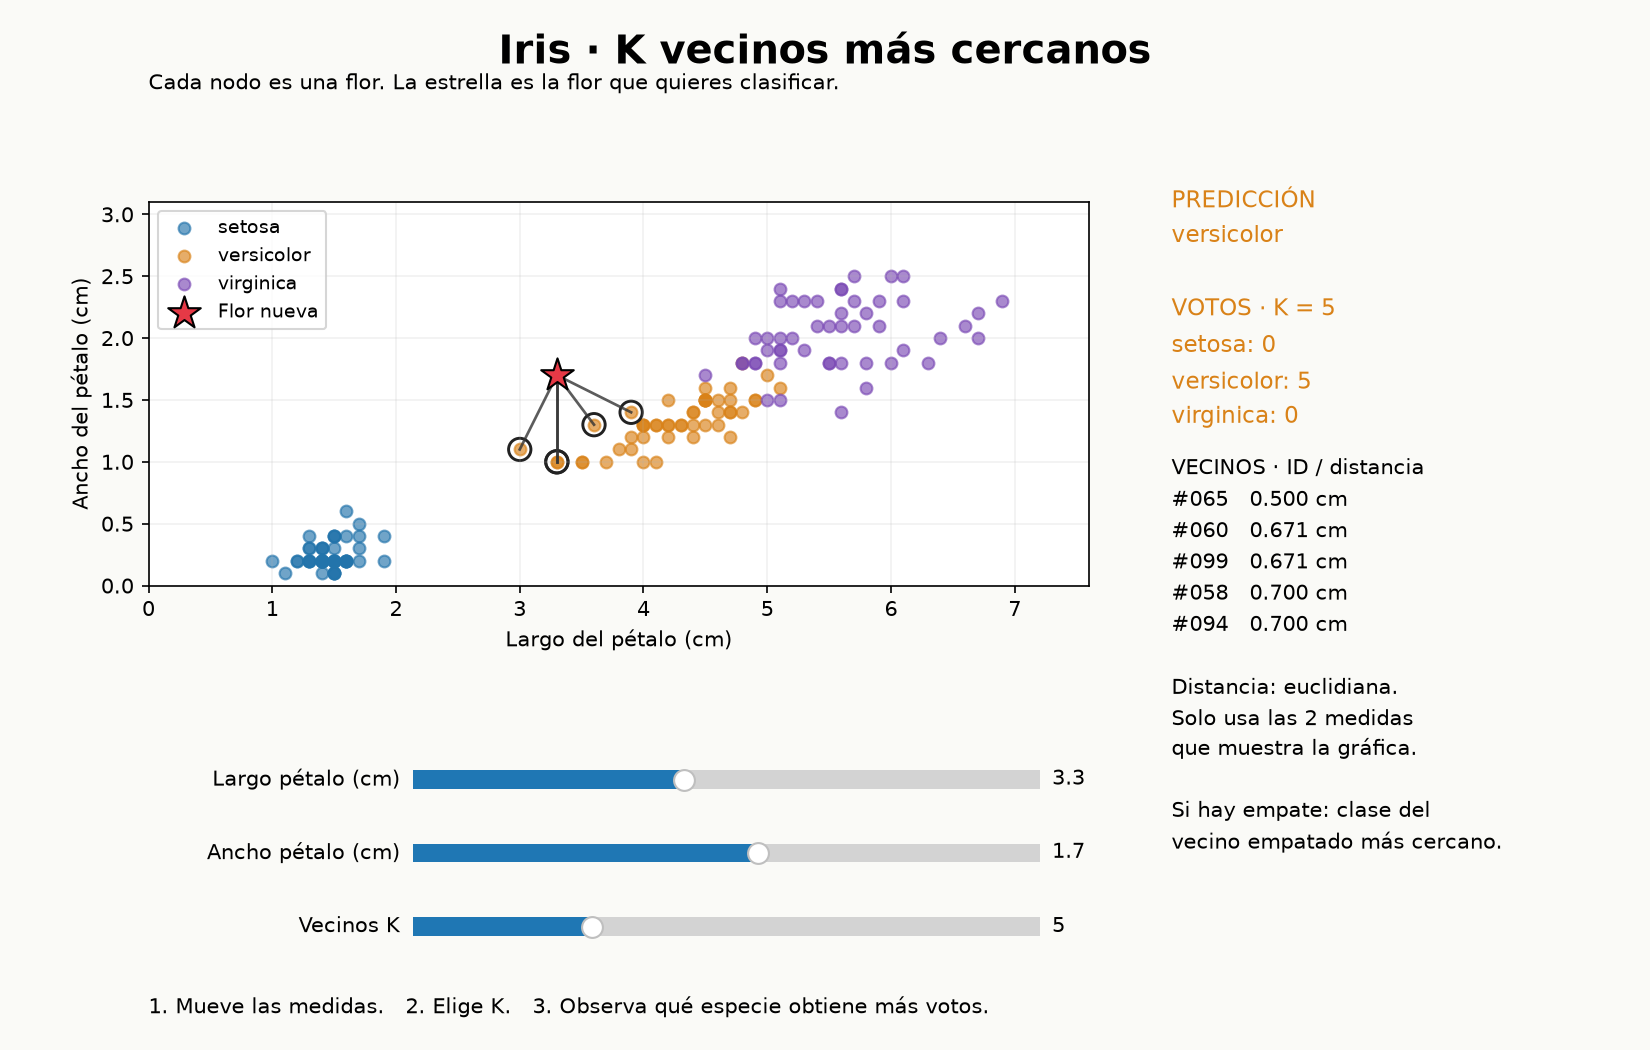
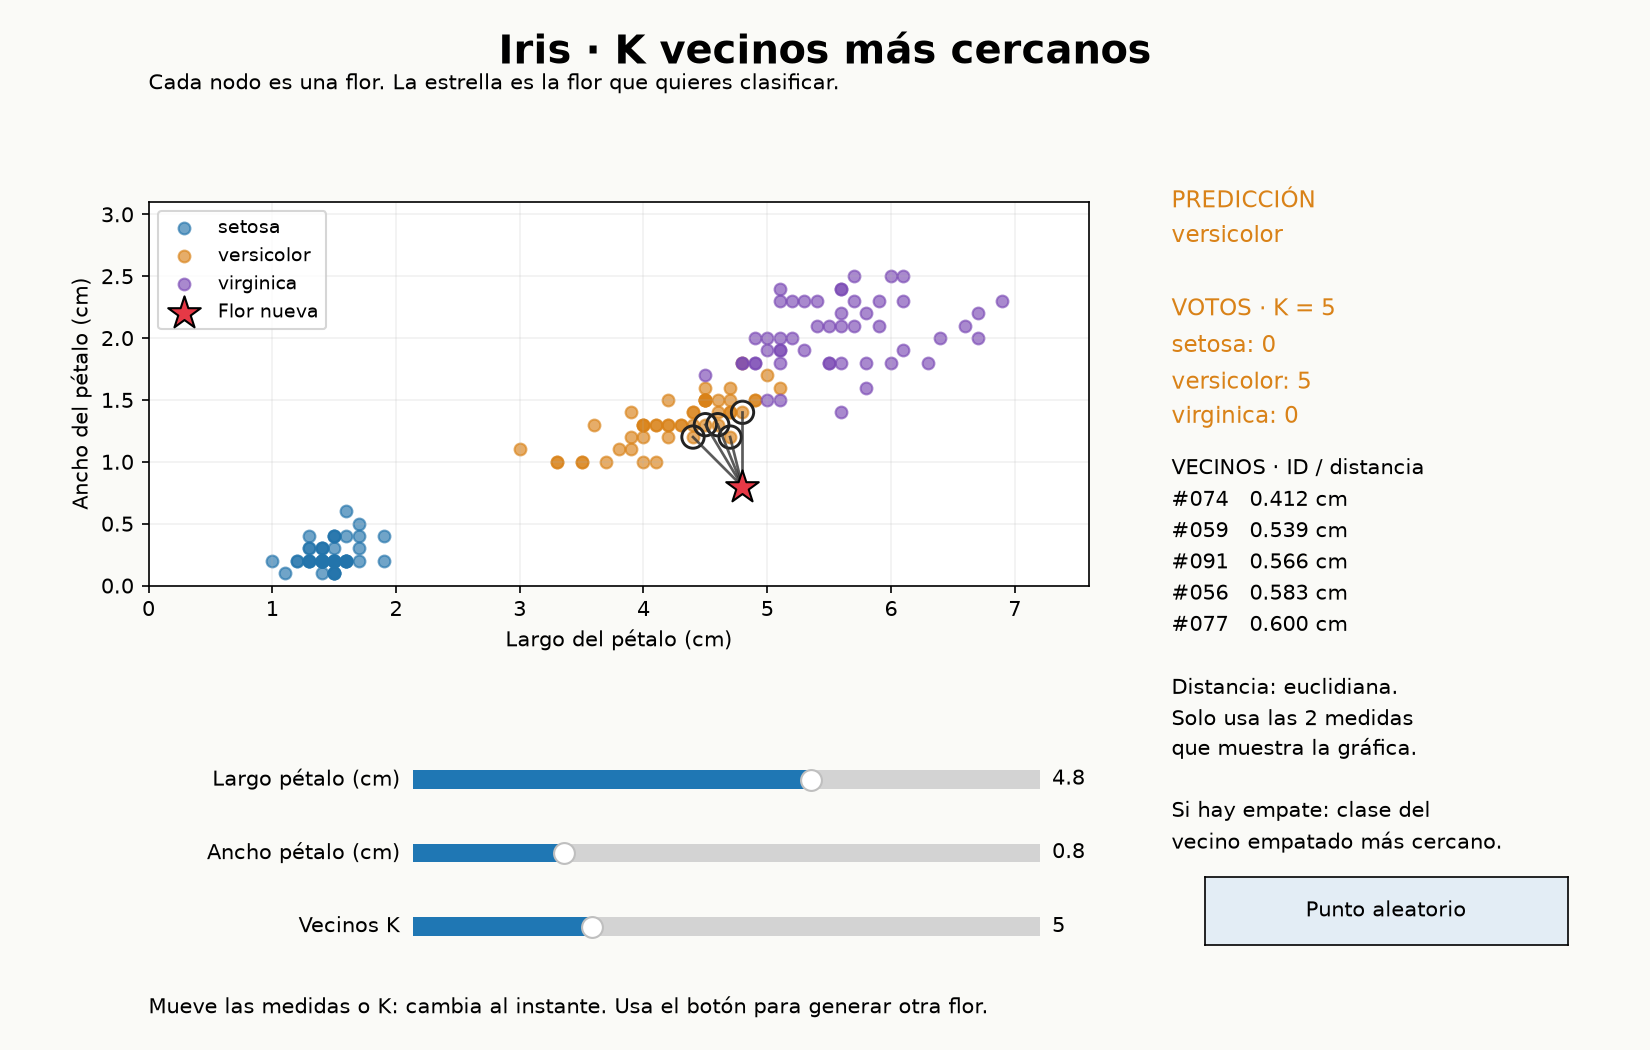
feat(knn): add random point button and random initial query

diff --git a/Proyectos/Iris_KNN_sencillo/knn_iris.py b/Proyectos/Iris_KNN_sencillo/knn_iris.py
@@ -2,6 +2,7 @@
 import argparse
 import csv
 import math
+import random
 from collections import Counter
 from pathlib import Path
 
@@ -36,7 +37,7 @@ def clasificar(datos, largo, ancho, k):
 
 def crear_ventana():
     import matplotlib.pyplot as plt
-    from matplotlib.widgets import Slider
+    from matplotlib.widgets import Slider, Button
 
     datos = cargar_iris()
     fig = plt.figure(figsize=(11, 7), facecolor='#fafaf7')
@@ -46,12 +47,15 @@ def crear_ventana():
     fig.text(.09, .915, 'Cada nodo es una flor. La estrella es la flor que quieres clasificar.', fontsize=10)
     resumen = fig.text(.71, .83, '', va='top', fontsize=11, linespacing=1.6)
     detalle = fig.text(.71, .57, '', va='top', fontsize=10, linespacing=1.5)
+    inicial = (random.randint(10, 69) / 10, random.randint(1, 25) / 10)
     controles = [
-        Slider(fig.add_axes([.25, .24, .38, .035]), 'Largo pétalo (cm)', .1, 7.5, valinit=3.3, valstep=.1),
-        Slider(fig.add_axes([.25, .17, .38, .035]), 'Ancho pétalo (cm)', .1, 3.0, valinit=1.7, valstep=.1),
+        Slider(fig.add_axes([.25, .24, .38, .035]), 'Largo pétalo (cm)', .1, 7.5, valinit=inicial[0], valstep=.1),
+        Slider(fig.add_axes([.25, .17, .38, .035]), 'Ancho pétalo (cm)', .1, 3.0, valinit=inicial[1], valstep=.1),
         Slider(fig.add_axes([.25, .10, .38, .035]), 'Vecinos K', 1, 15, valinit=5, valstep=1, valfmt='%0.0f'),
     ]
-    fig.text(.09, .035, '1. Mueve las medidas.   2. Elige K.   3. Observa qué especie obtiene más votos.', fontsize=10)
+    boton = Button(fig.add_axes([.73, .10, .22, .065]), 'Punto aleatorio',
+                   color='#e3edf5', hovercolor='#c5dfef')
+    fig.text(.09, .035, 'Mueve las medidas o K: cambia al instante. Usa el botón para generar otra flor.', fontsize=10)
 
     def actualizar(_=None):
         x, y, k = controles[0].val, controles[1].val, int(controles[2].val)
@@ -85,11 +89,25 @@ def crear_ventana():
         detalle.set_text('\n'.join(filas))
         fig.canvas.draw_idle()
 
+    def generar_punto(_):
+        # Actualizar las dos coordenadas juntas y recalcular una sola vez.
+        anterior = tuple(round(c.val, 1) for c in controles[:2])
+        nuevo = anterior
+        while nuevo == anterior:
+            nuevo = (random.randint(10, 69) / 10, random.randint(1, 25) / 10)
+        for control, valor in zip(controles[:2], nuevo):
+            control.eventson = False
+            control.set_val(valor)
+            control.eventson = True
+        actualizar()
+
+    boton.on_clicked(generar_punto)
     for control in controles:
         control.on_changed(actualizar)
     actualizar()
     # Mantener vivos los controles y permitir explorar la ventana interactivamente.
     fig.controles_knn = controles
+    fig.boton_aleatorio = boton
     return fig
 
 

diff --git a/Proyectos/Iris_KNN_sencillo/test_knn.py b/Proyectos/Iris_KNN_sencillo/test_knn.py
@@ -59,5 +59,46 @@ class VentanaTests(unittest.TestCase):
             plt.close(fig)
 
 
+class AleatorioTests(unittest.TestCase):
+    def test_inicio_aleatorio_y_boton_actualiza_punto_sin_cambiar_k(self):
+        import random
+        import matplotlib
+        matplotlib.use('Agg')
+        import matplotlib.pyplot as plt
+        from matplotlib.backend_bases import MouseEvent
+        from knn_iris import crear_ventana
+        estado = random.getstate()
+        random.seed(42)
+        fig = crear_ventana()
+        try:
+            largo, ancho, k = fig.controles_knn
+            inicio = (largo.val, ancho.val)
+            otra = crear_ventana()
+            try:
+                self.assertNotEqual(inicio, tuple(c.val for c in otra.controles_knn[:2]))
+            finally:
+                plt.close(otra)
+            largo.set_val(1.4)
+            ancho.set_val(.2)
+            k.set_val(7)
+            fig.canvas.draw()
+            boton = fig.boton_aleatorio
+            x, y = boton.ax.transAxes.transform((.5, .5))
+            for evento in ['button_press_event', 'button_release_event']:
+                fig.canvas.callbacks.process(evento, MouseEvent(evento, fig.canvas, x, y, button=1))
+            self.assertNotEqual((largo.val, ancho.val), (1.4, .2))
+            self.assertTrue(1.0 <= largo.val <= 6.9)
+            self.assertTrue(.1 <= ancho.val <= 2.5)
+            self.assertEqual(k.val, 7)
+            self.assertEqual(len(fig.axes[0].lines), 7)
+            # Las aristas deben salir del nuevo punto, no del anterior.
+            for linea in fig.axes[0].lines:
+                self.assertEqual(linea.get_xdata()[0], largo.val)
+                self.assertEqual(linea.get_ydata()[0], ancho.val)
+        finally:
+            random.setstate(estado)
+            plt.close(fig)
+
+
 if __name__ == '__main__':
     unittest.main()

diff --git a/Proyectos/Iris_KNN_sencillo/README.md b/Proyectos/Iris_KNN_sencillo/README.md
@@ -14,9 +14,14 @@ El iniciador usa el entorno propio si existe o reutiliza el entorno de Iris Lab 
 
 ## Cómo usarlo
 
-1. Mueve **Largo pétalo** y **Ancho pétalo** para cambiar la estrella.
+La estrella se genera aleatoriamente al abrir la aplicación.
+
+1. Mueve **Largo pétalo** y **Ancho pétalo** para cambiar la estrella en tiempo real.
 2. Cambia **Vecinos K**, entre 1 y 15.
-3. Observa las conexiones, los votos de las tres especies y la predicción.
+3. Pulsa **Punto aleatorio** para generar otra flor y actualizar todas las conexiones y votos, conservando K.
+4. Observa la predicción al instante.
+
+Los puntos aleatorios son combinaciones sintéticas dentro del rango de medidas de Iris (largo de 1.0 a 6.9 cm; ancho de 0.1 a 2.5 cm), no flores tomadas del CSV.
 
 Puedes probar estas medidas con K = 5:
 
